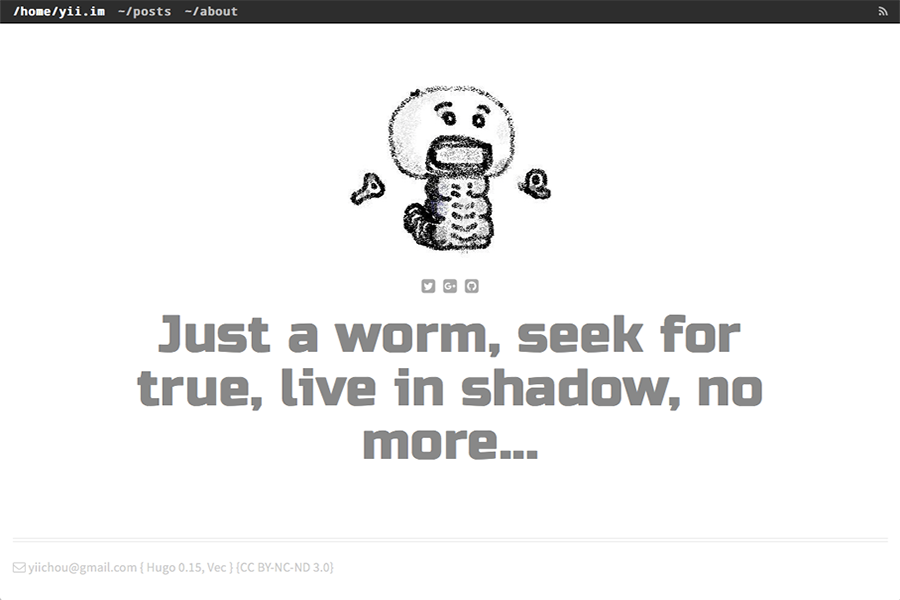
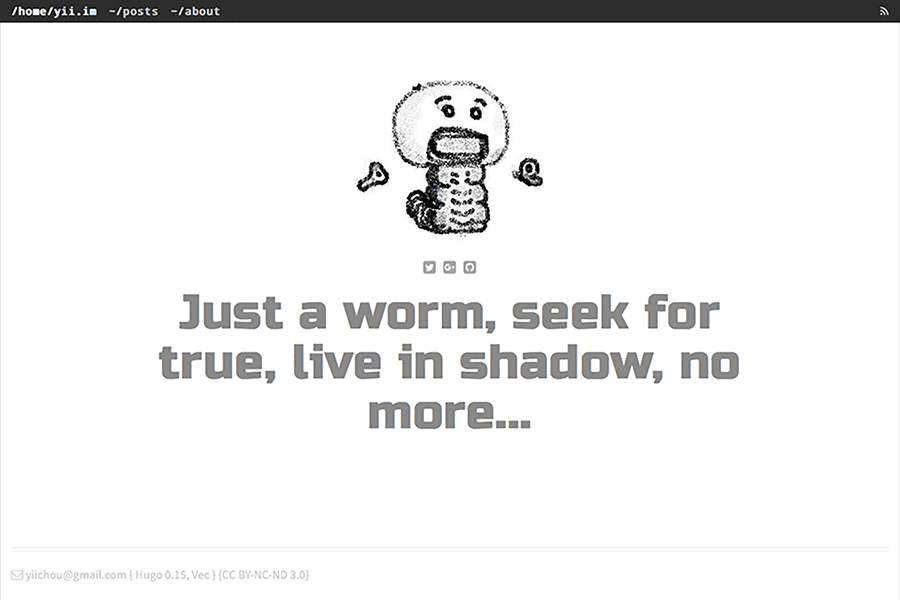
resize screenshot

Changed region(s): [[0.1556, 0.12, 0.8711, 0.78], [0.0, 0.0, 1.0, 0.06], [0.0, 0.93, 0.3733, 0.99]]

diff --git a/README.md b/README.md
@@ -2,11 +2,11 @@
 
 Vec is a minimal, clean and beautiful theme for [Hugo](http://gohugo.io/).
 
-![Vec screenshot](https://github.com/IvanChou/hugo-theme-vec/blob/master/images/screenshot.png)
-
-![Vec screenshot2](https://github.com/IvanChou/hugo-theme-vec/blob/master/images/screenshot2.png)
-
 [Demo](http://yii.im).
+
+![Vec screenshot](https://github.com/IvanChou/hugo-theme-vec/blob/master/images/tn.png)
+
+![Vec screenshot2](https://github.com/IvanChou/hugo-theme-vec/blob/master/images/tn2.png)
 
 ## Installation
 
